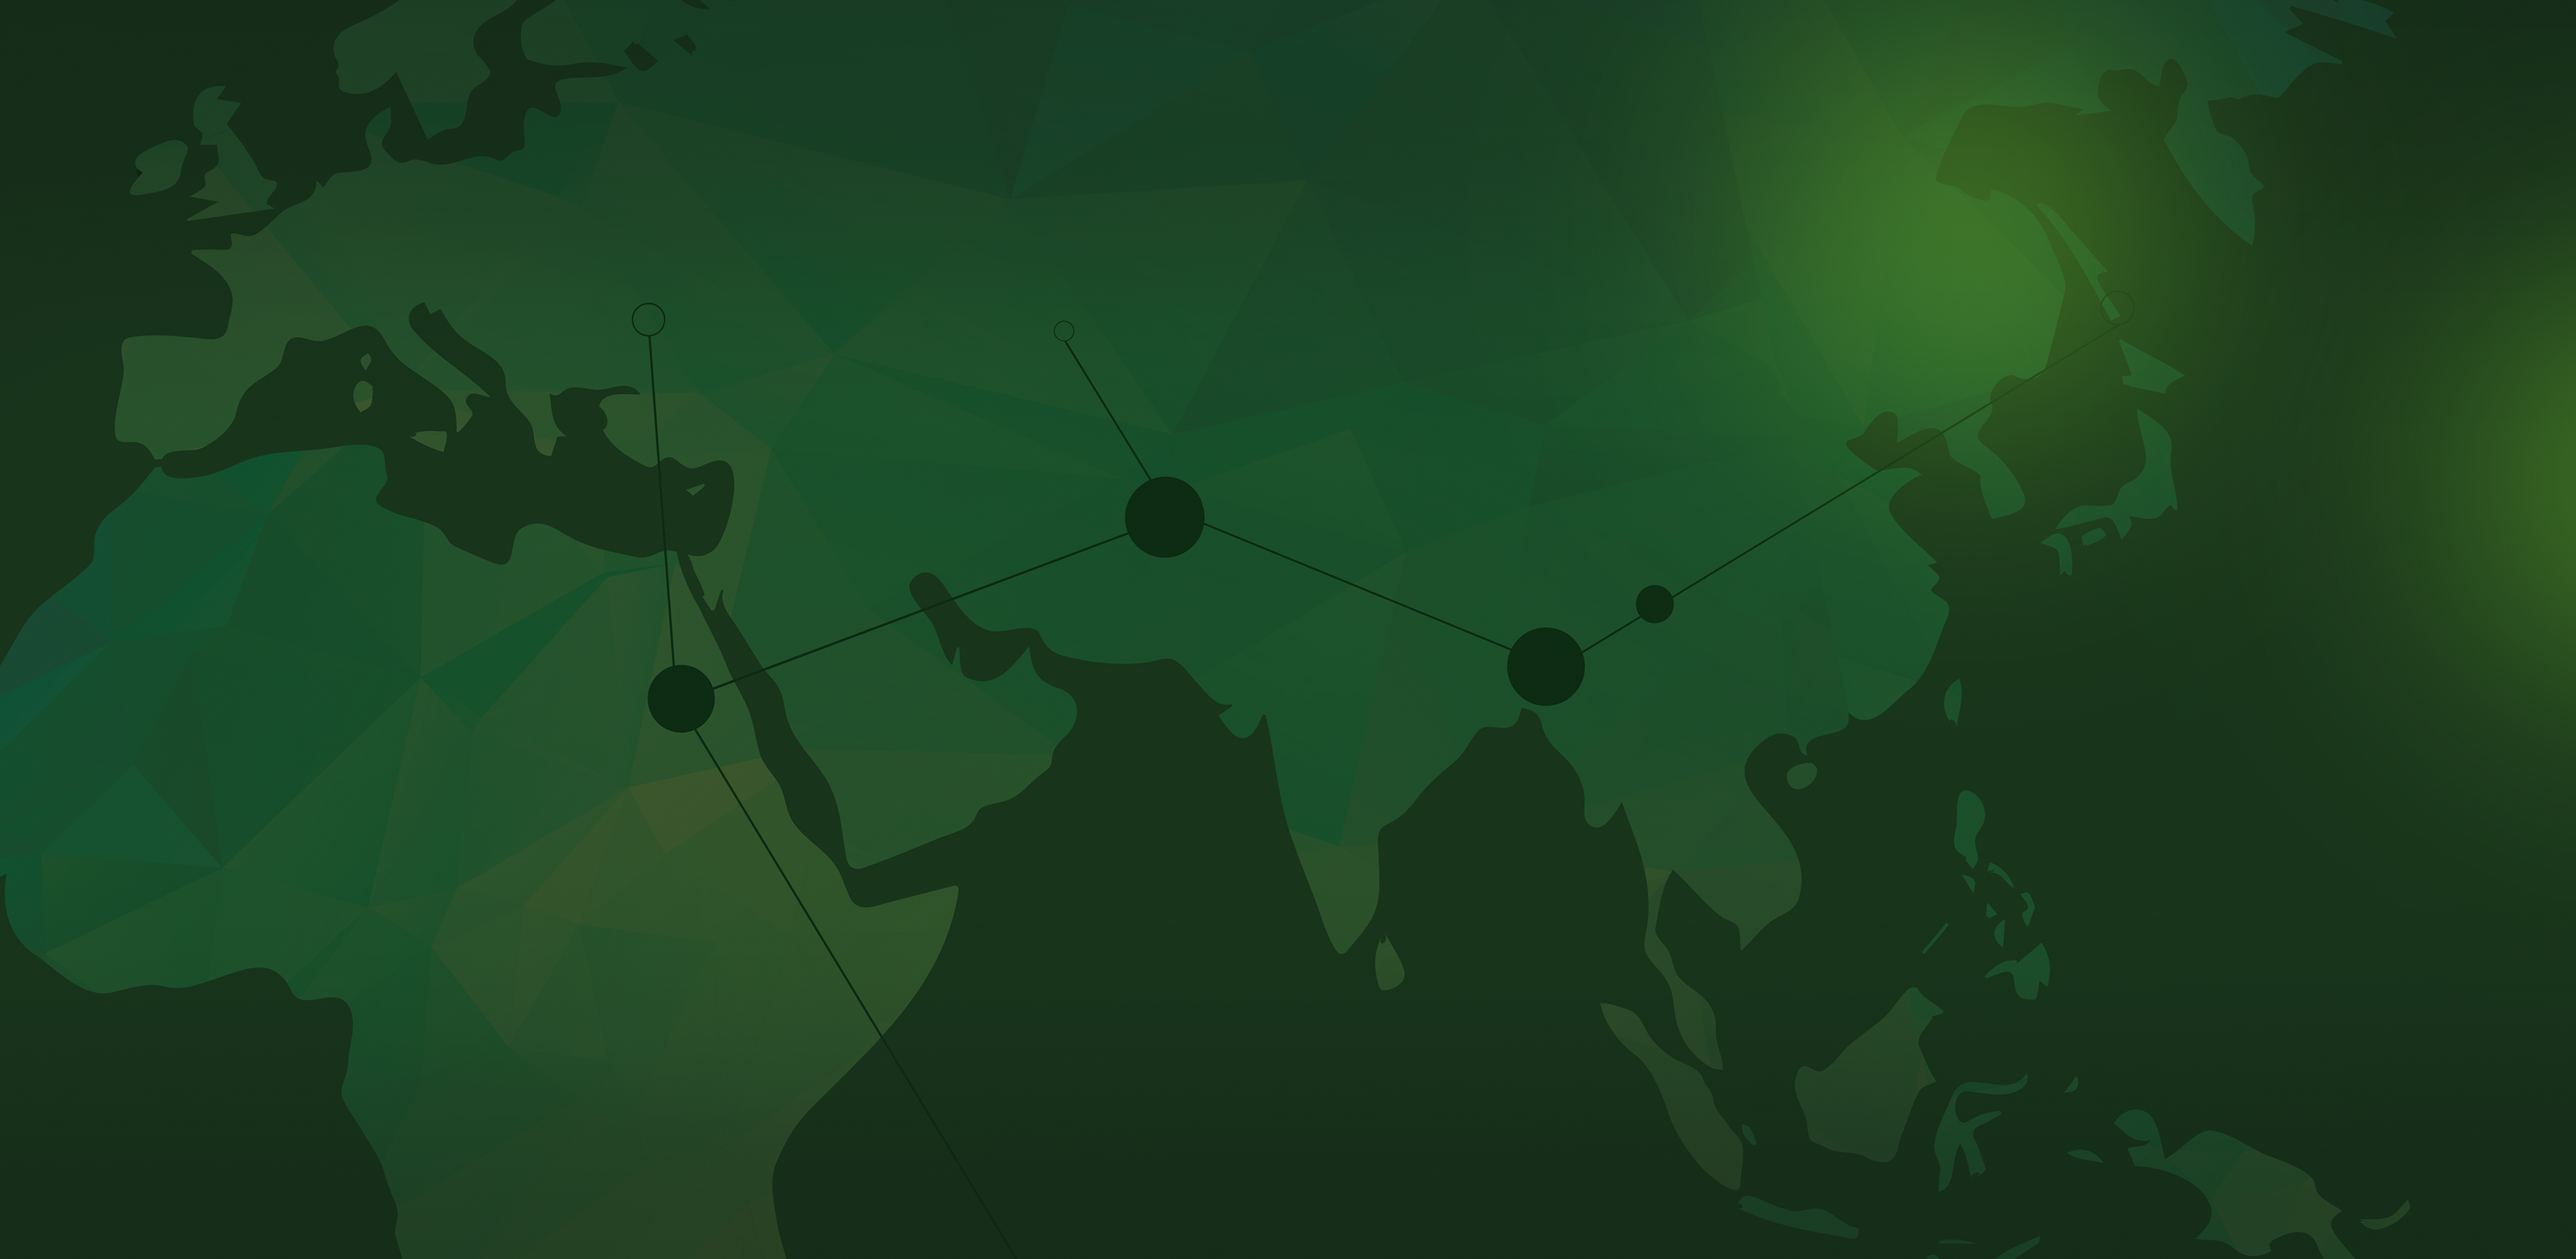
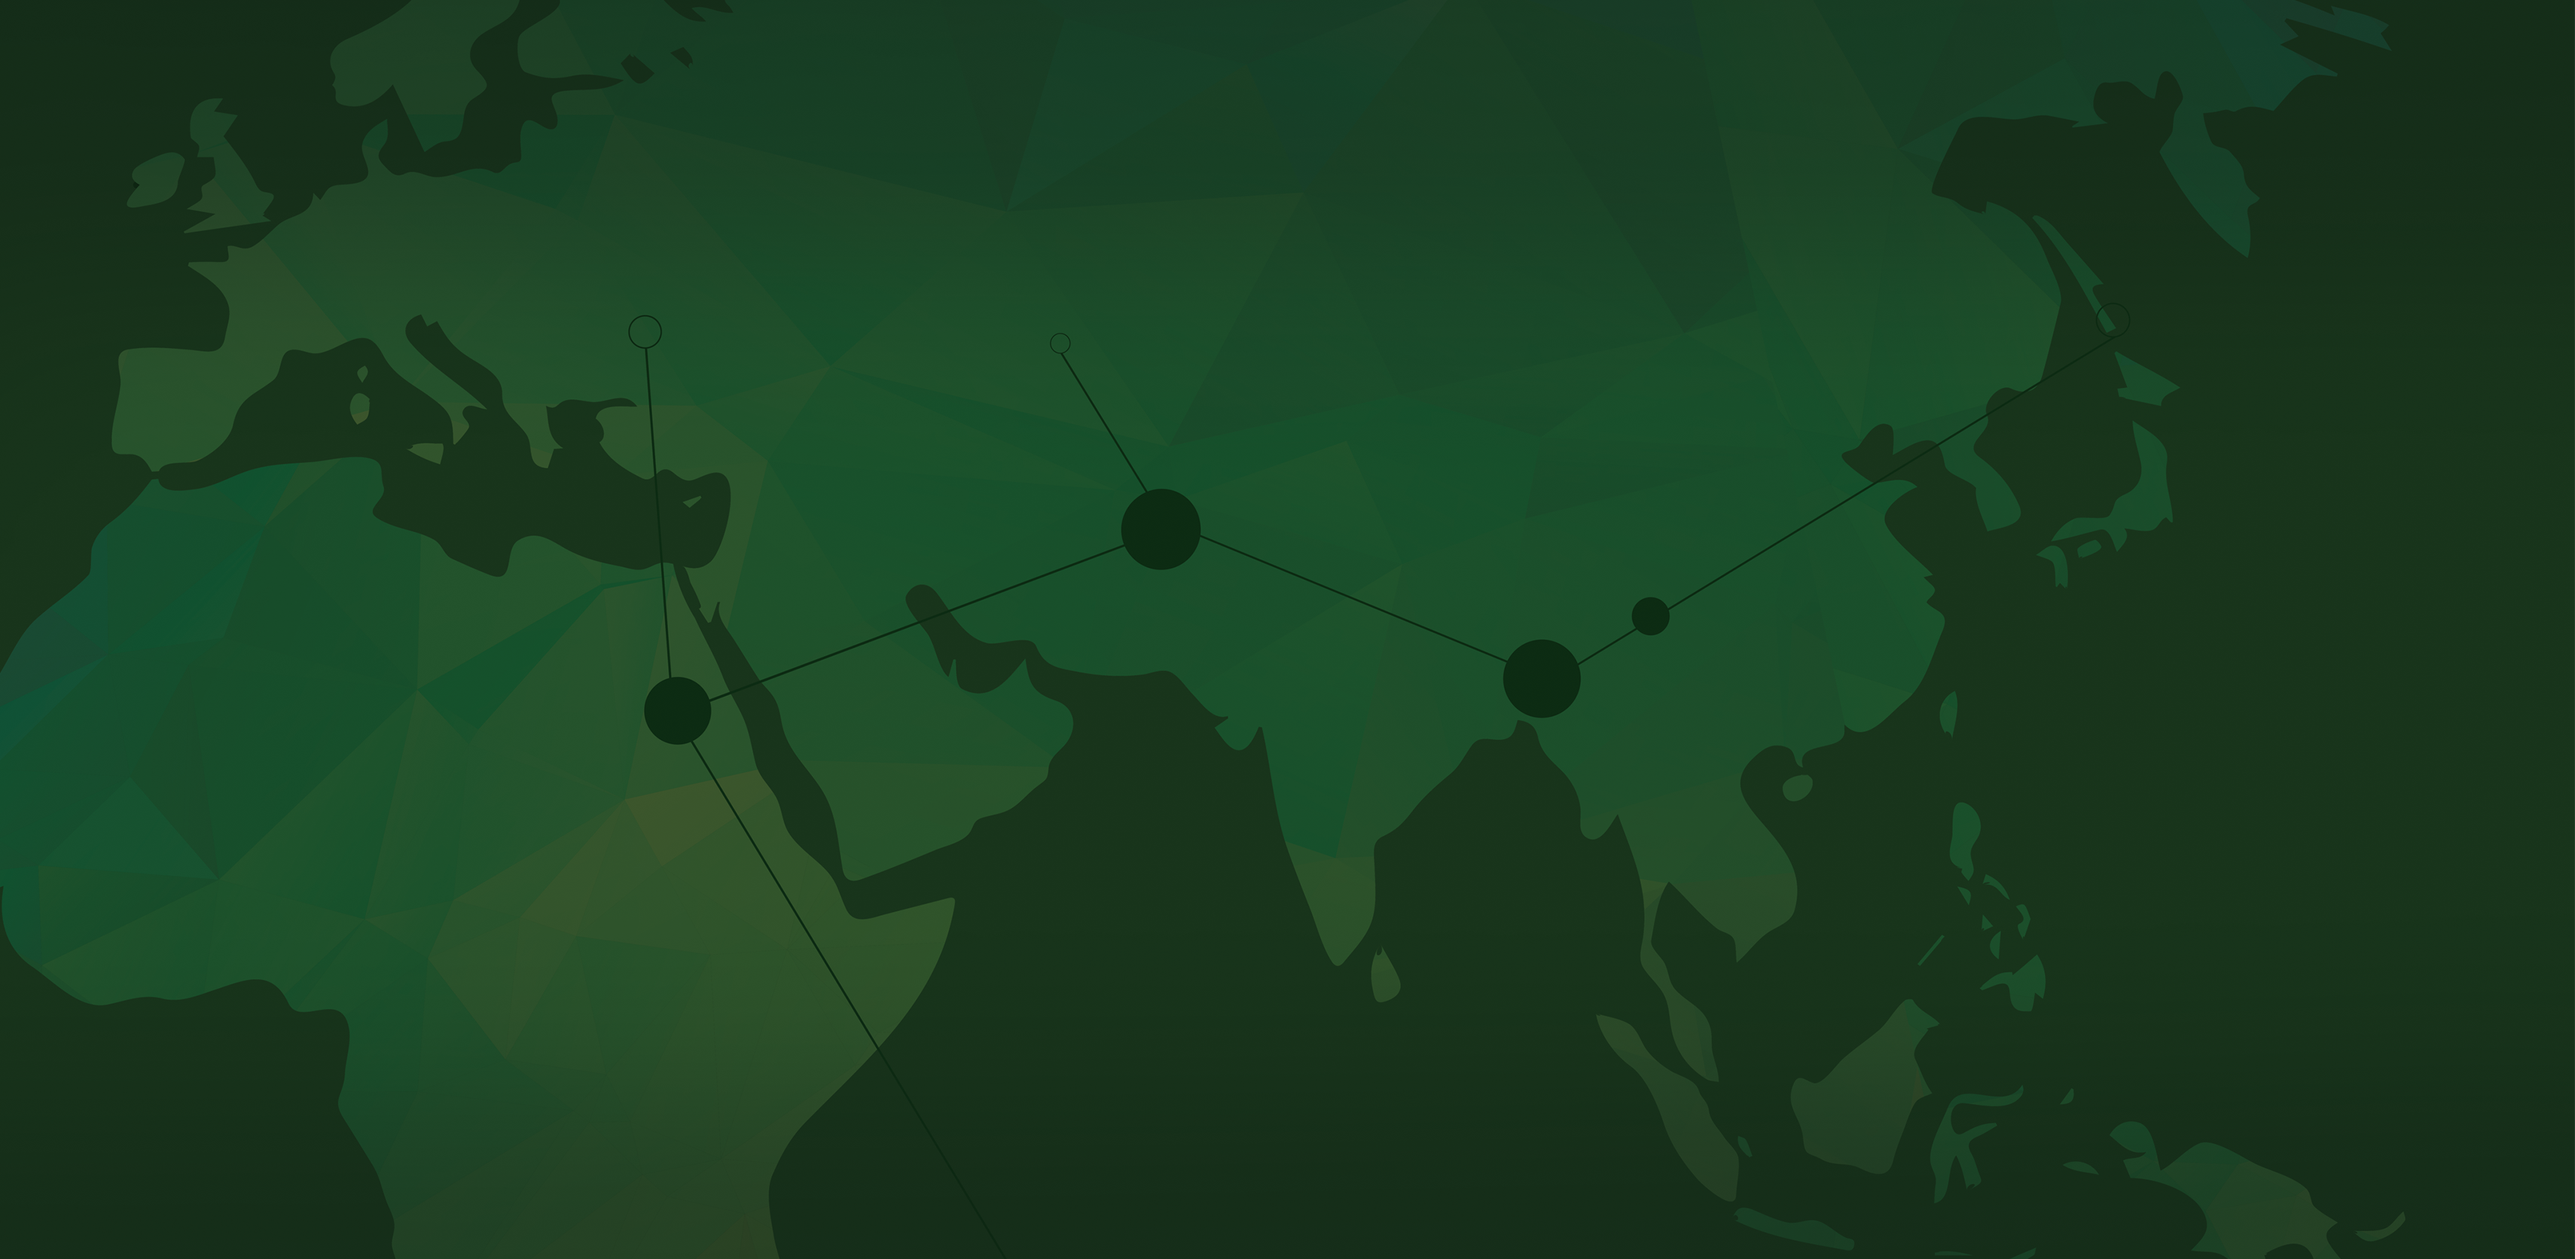
add blick

diff --git a/css/style.css b/css/style.css
@@ -20,10 +20,10 @@ body{
 	margin: 0;
 	padding: 0;
 	position: relative;
-	/* background: url('img/map.png') no-repeat;
+	background: url('../img/bg.png') no-repeat;
 	background-size: cover;
 	background-attachment: fixed;
-	background-position: center; */
+	background-position: center;
 }
 
 img {
@@ -140,24 +140,44 @@ textarea::selection{
 First page
 =================================================*/
 
-
 /*================================================
-Main Area
+background
 =================================================*/
 .bg-blick {
 	position: absolute;
 	right: 0px;
 	top: 0px;
-	width: 800px;
 }
+.bg-blick div {
+	width: 150px;
+	height: 150px;
+	background: #3a712a;
+	position: absolute;
+  right: 0;
+	top: 10px;
+	filter: blur(50px);
+}
+.bg-blick div:first-child {
+	top: 90px;
+	right: 130px;
+}
+.bg-blick div:last-child {
+	top: 300px;
+	right: 0px;
+}
+
+
+/*================================================
+Main Area
+=================================================*/
 .wrap {
 	min-height: 100vh;
 }
 .main-area {
-	background: url('../img/map.png') no-repeat;
+	/* background: url('../img/map.png') no-repeat;
 	background-size: cover;
-	background-attachment: fixed;
-	background-position: center;
+	background-attachment: fixed; */
+	/* background-position: center; */
 	display: flex;
 	justify-content: center;
 	align-items: center;
@@ -321,10 +341,10 @@ Footer
 	Wrapper
 =================================================*/
 .wrapper {
-	background: url(../img/page-2__bg.png) no-repeat;
+	/* background: url(../img/page-2__bg.png) no-repeat;
 	background-size: cover;
 	background-attachment: fixed;
-	background-position: center;
+	background-position: center; */
 	/* padding-bottom: 220px; */
 	min-height: 100vh;
 	position: relative;

diff --git a/index.html b/index.html
@@ -85,7 +85,10 @@
 	<div class="wrap">
 		<!-- Start Main Area -->
 <div class="main-area">
-	<img src="img/bg-blick.png" alt="" class="bg-blick">
+		<div class="bg-blick">
+			<div></div>
+			<div></div>
+		</div>
 		<!-- Start left-block Area -->
 	<div class="main-area__left-block">
 		<div class="main-area__logos">
